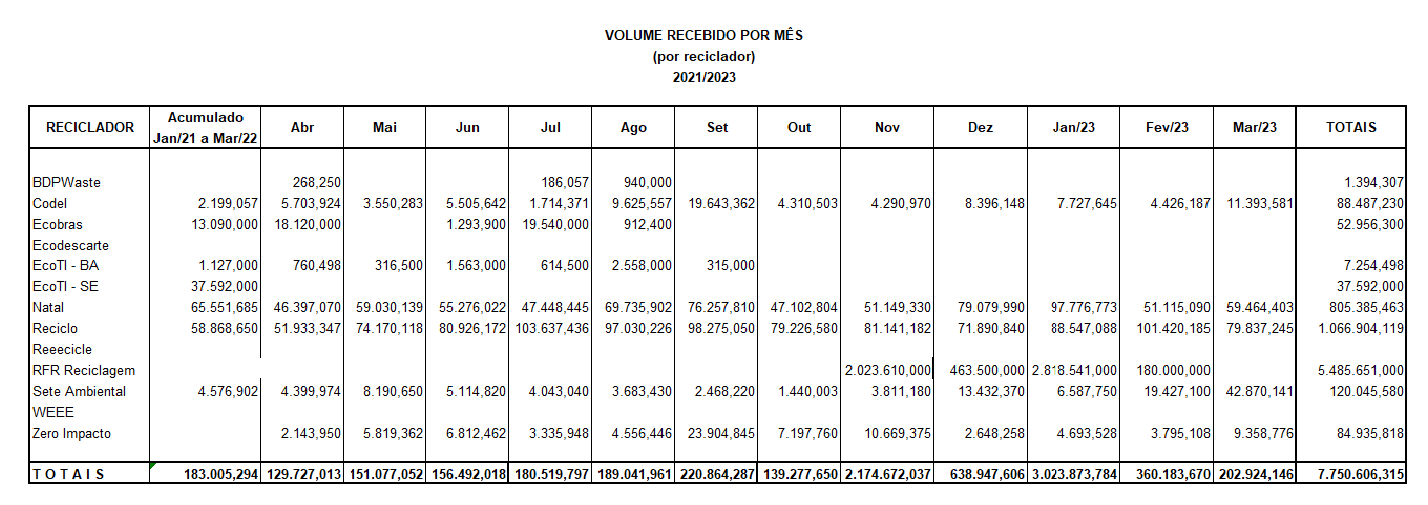
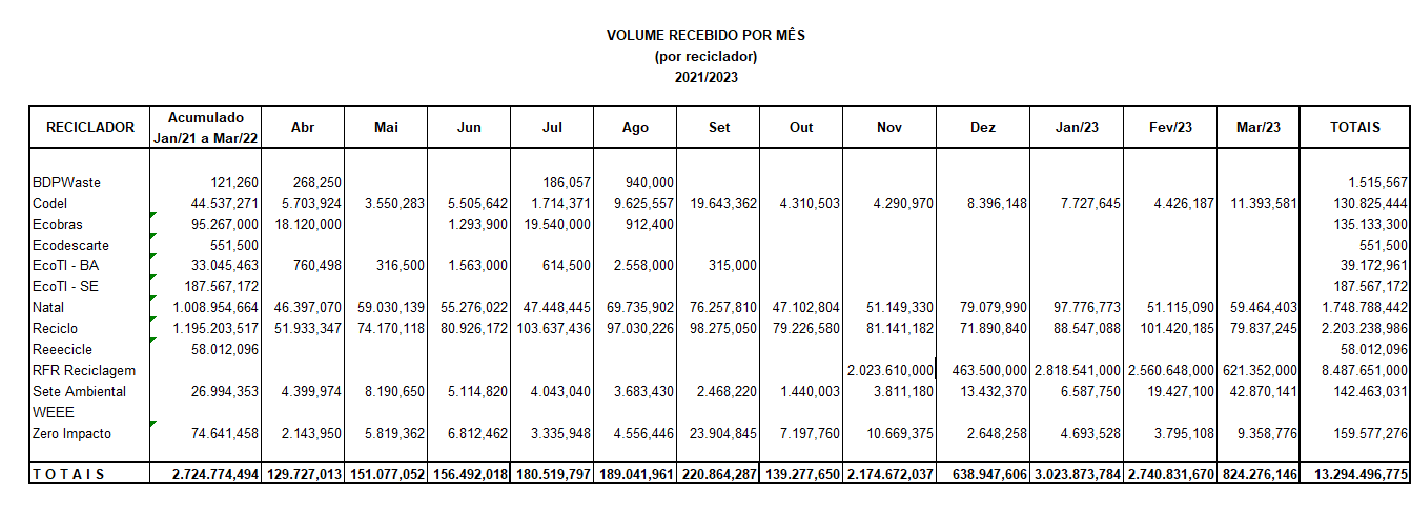
Atualizado com RFR

diff --git a/frontend/src/components/DataTable/index.tsx b/frontend/src/components/DataTable/index.tsx
@@ -86,10 +86,10 @@ const DataTable = () => {
                     </tr><tr>
                         <td>RFR Reciclagem</td>
                         <td>0</td>
-                        <td>12</td>
-                        <td>235</td>
+                        <td>18</td>
+                        <td>400</td>
                         <td>0,000</td>
-                        <td>5.473.740,000</td>
+                        <td>8.381.480,000</td>
                     </tr>
                     <tr>
                         <td>Sete Ambiental</td>
@@ -126,10 +126,10 @@ const DataTable = () => {
                     <tr>
                         <th>T O T A I S</th>
                         <th>3.395</th>
-                        <th>8.176</th>
-                        <th>3.461</th>
+                        <th>8.182</th>
+                        <th>3.626</th>
                         <th>740.561,575</th>
-                        <th>9.559.096,993</th>
+                        <th>12.466.836,993</th>
                     </tr>
                 </thead>
                 <tbody>

diff --git a/frontend/src/components/BarRecbMensal/index.tsx b/frontend/src/components/BarRecbMensal/index.tsx
@@ -21,7 +21,7 @@ const BarRecbMensal = () => {
         series: [
             {
                 name: "Kg Recebidos",
-                data: [108468, 113628,	123526, 138370, 186067, 187866, 219556, 162479, 257534, 204908, 255846, 235632, 170503, 177506, 183005, 129727, 151077, 156492, 180520, 189042, 220864, 139278, 2174672, 638948, 3023874, 360184, 202924]                  
+                data: [108468, 113628,	123526, 138370, 186067, 187866, 219556, 162479, 257534, 204908, 255846, 235632, 170503, 177506, 183005, 129727, 151077, 156492, 180520, 189042, 220864, 139278, 2174672, 638948, 3023874, 2740832, 824276]                  
             }
         ]
     };

diff --git a/frontend/src/components/BarReciclMensal/index.tsx b/frontend/src/components/BarReciclMensal/index.tsx
@@ -21,7 +21,7 @@ const BarReciclMensal = () => {
         series: [
             {
                 name: "Kg Reciclados",
-                data: [26339, 90712, 93643, 142116, 166545, 219788, 189244, 197028, 209382, 176002, 176982, 162728, 128780, 136990, 181336, 84713, 112874, 154528, 138325, 172608, 207822, 160358, 1986182, 743296, 2188760, 1086686, 225332]                  
+                data: [26339, 90712, 93643, 142116, 166545, 219788, 189244, 197028, 209382, 176002, 176982, 162728, 128780, 136990, 181336, 84713, 112874, 154528, 138325, 172608, 207822, 160358, 1986182, 743296, 2188760, 2272066, 1947692]                  
             }
         ]
     };

diff --git a/frontend/src/components/DonutChart/index.tsx b/frontend/src/components/DonutChart/index.tsx
@@ -3,7 +3,7 @@ import Chart from 'react-apexcharts';
 const DonutChart = () => {
 
     const mockData = {
-        series: [0, 100.779, 46.304, 0, 9.459, 25.501, 1533.558, 2288.199, 0.184, 5473.740, 0.610, 0, 80.763],
+        series: [0, 100.779, 46.304, 0, 9.459, 25.501, 1533.558, 2288.199, 0.184, 8381.480, 0.610, 0, 80.763],
         labels: ['BDPWaste', 'Codel', 'Ecobras', 'Ecodescarte', 'EcoTI - BA', 'EcoTI - SE', 'Natal', 'Reciclo', 'Reeecicle', 'RFR Reciclagem' , 'Sete Ambiental', 'WEEE', 'Zero Impacto']
     }
     

diff --git a/frontend/src/components/BarChart/index.tsx b/frontend/src/components/BarChart/index.tsx
@@ -17,7 +17,7 @@ const BarChart = () => {
             series: [
             {
                 name: "Ton Reciclados",
-                data: [0, 100.779, 46.304, 0, 9.459, 25.501, 1533.558, 2288.199, 0.184, 5473.740, 0.610, 0, 80.763]                  
+                data: [0, 100.779, 46.304, 0, 9.459, 25.501, 1533.558, 2288.199, 0.184, 8381.480, 0.610, 0, 80.763]                  
             }
         ]
     };

diff --git a/frontend/src/components/BarOSs/index.tsx b/frontend/src/components/BarOSs/index.tsx
@@ -22,7 +22,7 @@ const BarOSs = () => {
         series: [
             {
                 name: "OS's Abertas",
-                data: [12, 377, 17, 6, 64, 158, 3236, 2329, 206, 12, 920, 12, 839]                  
+                data: [12, 377, 17, 6, 64, 158, 3236, 2329, 206, 18, 920, 12, 839]                  
             }
         ]
     };

diff --git a/frontend/src/components/BarODs/index.tsx b/frontend/src/components/BarODs/index.tsx
@@ -22,7 +22,7 @@ const BarODs = () => {
             series: [
             {
                 name: "OD's Abertas",
-                data: [0, 786, 23, 0, 49, 52, 508, 1638, 1, 235, 17, 71, 81]                  
+                data: [0, 786, 23, 0, 49, 52, 508, 1638, 1, 400, 17, 71, 81]                  
             }
         ]
     };
